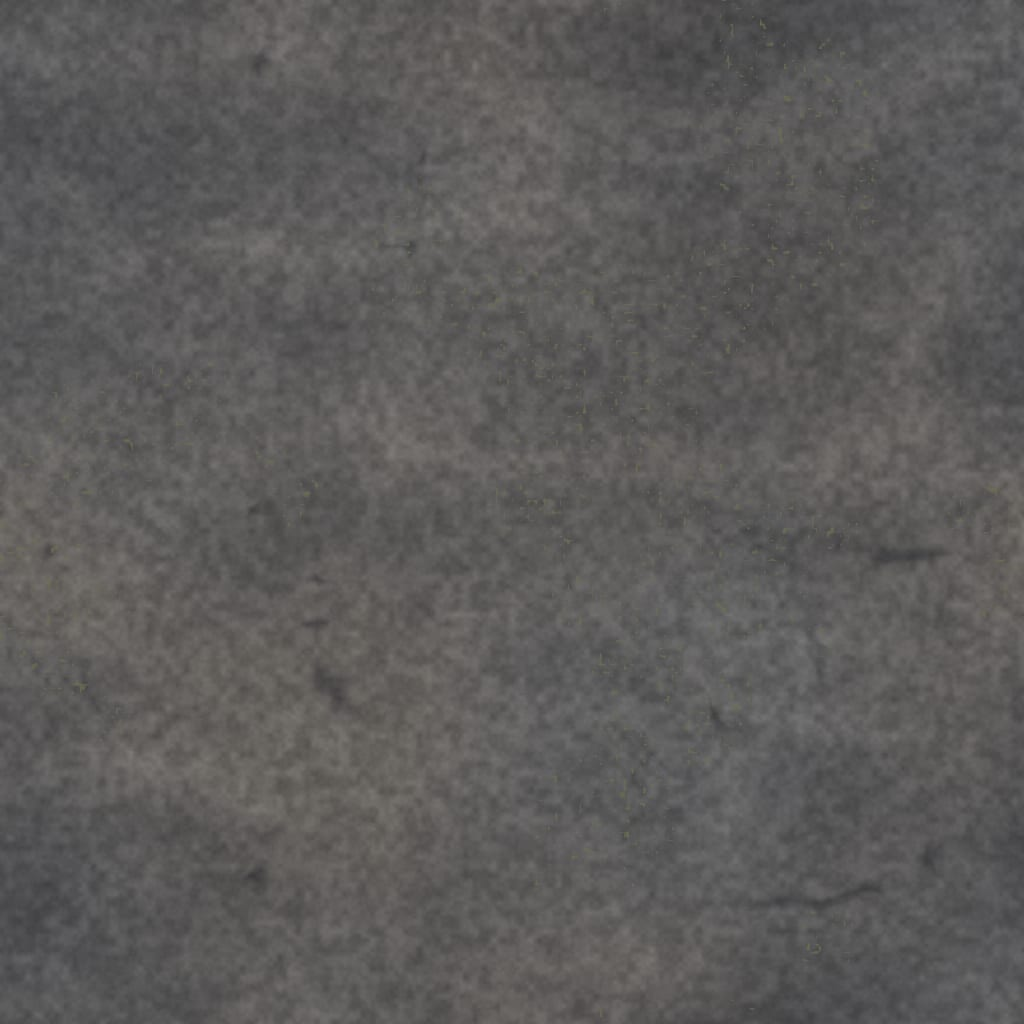
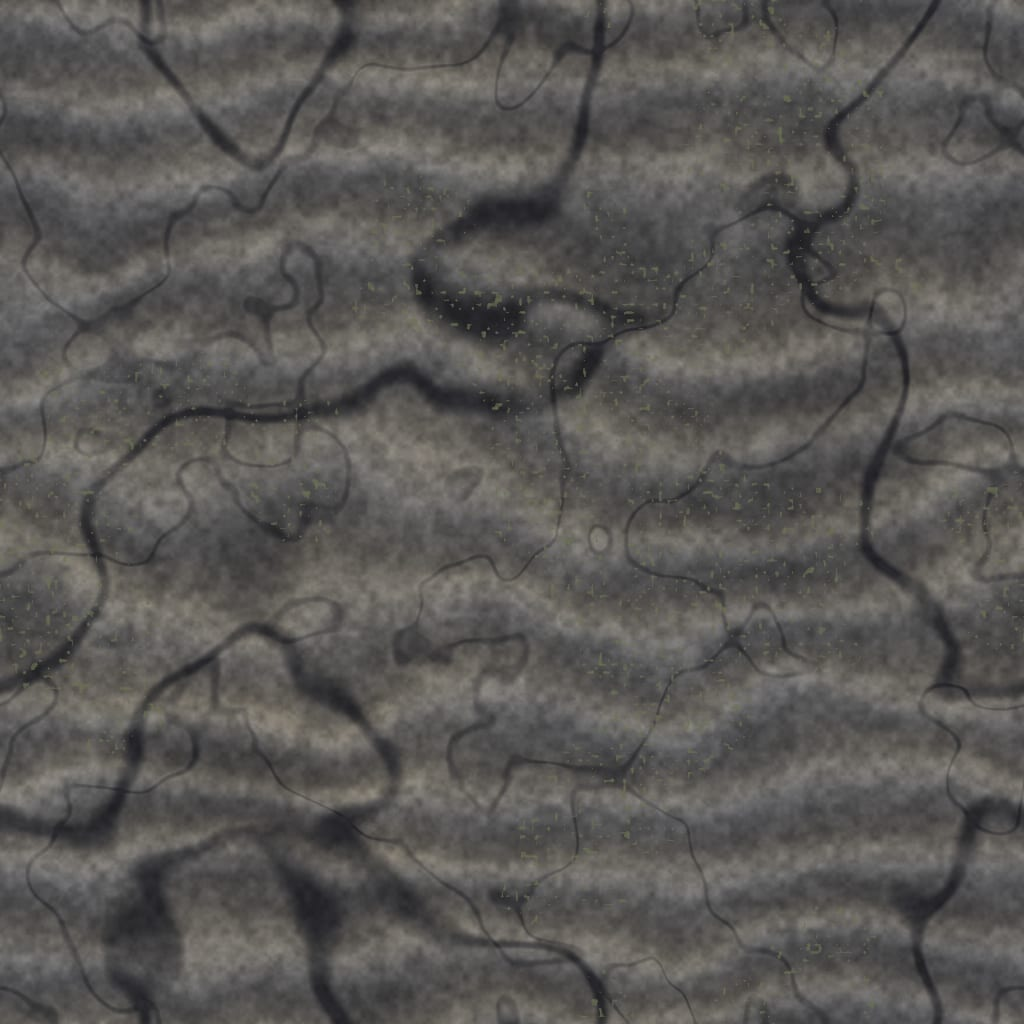
WIP: terrain texture iteration, terror enemies
Claude-Session: https://claude.ai/code/session_01XoqcRKfDwRNjMm1NNbBH9q

diff --git a/src/enemies.js b/src/enemies.js
@@ -1319,7 +1319,7 @@ export function createEnemies(g) {
             type === 'undergloom' || type === 'broodmother' || type === 'palerider',
       isVargr: type === 'vargr',
       spawner: spawner || null,
-      summoned: false, taunted: false,
+      summoned: false, taunted: false, gone: false,
       // wave-3 endgame bookkeeping
       hpScale, lockScale: pScale, elite, eliteNotified: false,
       baseScale: eSize,
@@ -3510,7 +3510,9 @@ export function createEnemies(g) {
     updateGuards(dt);
     updateFire(dt);
     updateBurst(dt);
+    updateGloomFx(dt);
     updateBolts(dt);
+    updatePlayerSlow(dt);
     updateGlobalState(t);
 
     // wave-3 endgame systems
@@ -3521,6 +3523,7 @@ export function createEnemies(g) {
       endTick = 1.0;
       updateHunt();
       echoTick();
+      riderTick(t); // the dead-hours road-walker
     }
   }
 
@@ -3544,8 +3547,9 @@ export function createEnemies(g) {
     // is re-derived on the next endgame tick.
     for (let i = list.length - 1; i >= 0; i--) {
       const e = list[i];
-      if (e.huntTarget || e.echo || e.bloodMoon) despawn(e);
+      if (e.huntTarget || e.echo || e.bloodMoon || e.type === 'palerider') despawn(e);
     }
+    riderE = null; // the road-walker is a transient; the clock re-summons it
     huntEnemy = null;
     api.activeHunt = null;
     clearHuntMarker();
